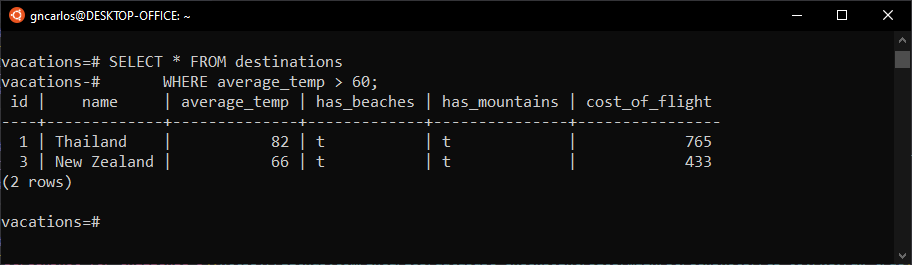
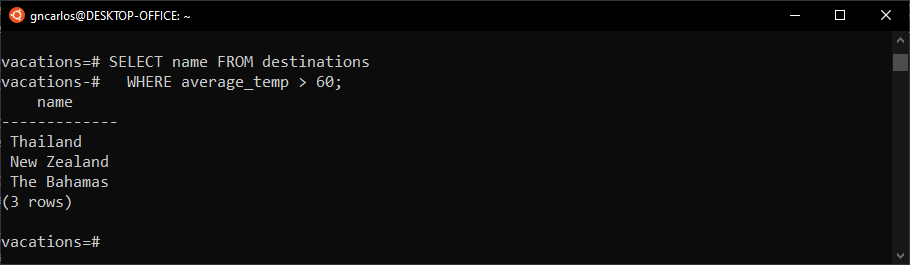
added more screenshots

diff --git a/README.md b/README.md
@@ -16,7 +16,7 @@
     SELECT * FROM destinations
       WHERE average_temp > 60;
   ### Results:
-  ![screenshot for challenge 3](https://snipboard.io/1atOcU.jpg)
+  ![screenshot for challenge 3](https://snipboard.io/FOfCNd.jpg)
 ## CHALLENGE 4
   ### Query:
     SELECT name FROM destinations
@@ -28,13 +28,13 @@
     SELECT name FROM destinations
       WHERE cost_of_flight < 500 AND has_mountains = true;
   ### Results:
-  ![screenshot for challenge 5](https://github.com/gncarlos/database-checkpoint/blob/main/screenshots/res_05.PNG?raw=true)
+  ![screenshot for challenge 5](https://snipboard.io/hwZnmr.jpg)
 ## CHALLENGE 6
   ### Query:
     INSERT INTO destinations VALUES (6, 'The Bahamas', 78, true, false, 345);
   ### Results:
     INSERT 0 1
-  ![screenshot for challenge 6](https://github.com/gncarlos/database-checkpoint/blob/main/screenshots/res_06.PNG?raw=true)
+  ![screenshot for challenge 6](https://snipboard.io/TsNn5I.jpg)
 ## CHALLENGE 7
   ### Query:
     UPDATE destinations SET cost_of_flight = '1000'
